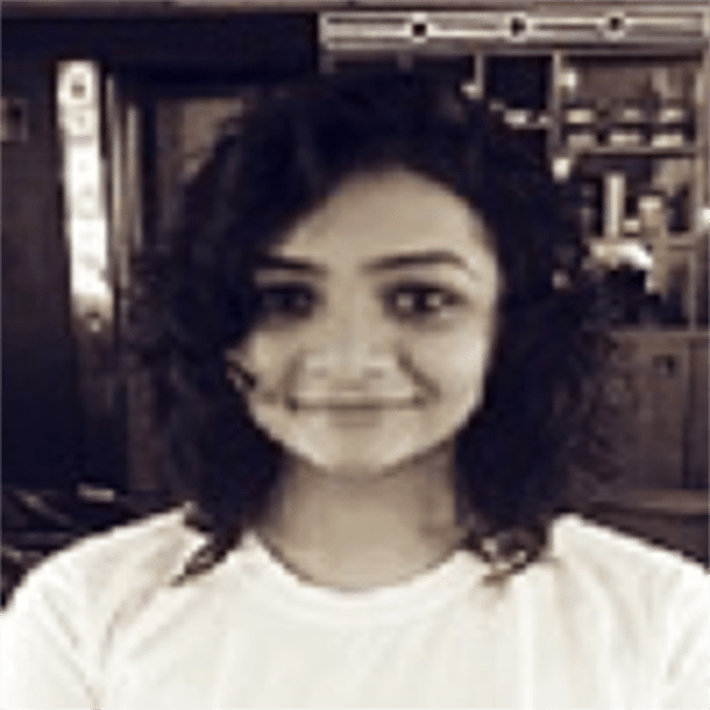
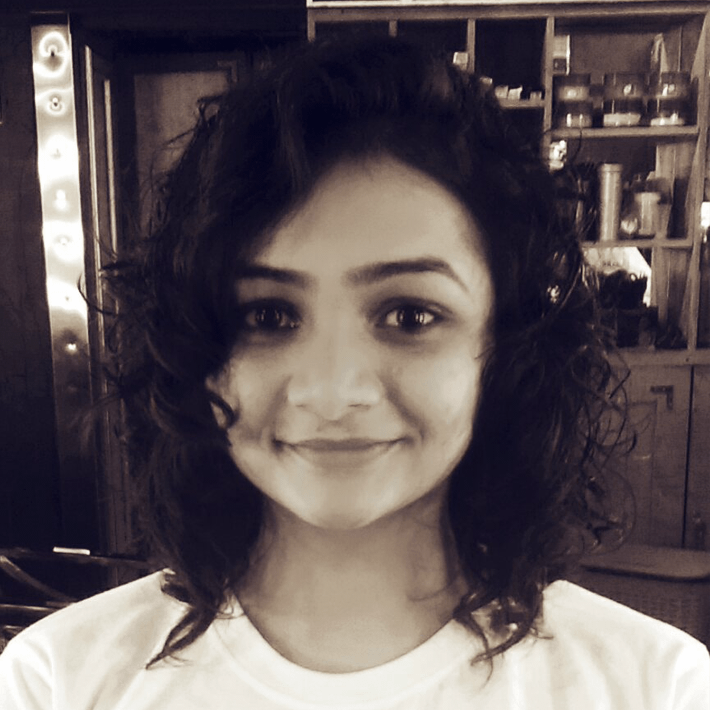
member image added

diff --git a/aboutus.html b/aboutus.html
@@ -372,7 +372,7 @@ Education saves lives, fosters peace, strengthens the rights of women and girls,
                     <div class="team-single-wrapper">
                         <div class="team-single">
                             <div class="person-thumb">
-                                <img src="images/ourteam/amit.png" class="img-responsive" alt="">
+                                <img src="images/ourteam/anirban.png" class="img-responsive" alt="">
                             </div>
 <!--
                             <div class="social-profile">
@@ -394,7 +394,7 @@ Education saves lives, fosters peace, strengthens the rights of women and girls,
                     <div class="team-single-wrapper">
                         <div class="team-single">
                             <div class="person-thumb">
-                                <img src="images/ourteam/amit.png" class="img-responsive" alt="">
+                                <img src="images/ourteam/unknown-person.png" class="img-responsive" alt="">
                             </div>
 <!--
                             <div class="social-profile">
@@ -416,7 +416,7 @@ Education saves lives, fosters peace, strengthens the rights of women and girls,
                     <div class="team-single-wrapper">
                         <div class="team-single">
                             <div class="person-thumb">
-                                <img src="images/ourteam/amit.png" class="img-responsive" alt="">
+                                <img src="images/ourteam/soham.png" class="img-responsive" alt="">
                             </div>
 <!--
                             <div class="social-profile">
@@ -438,7 +438,7 @@ Education saves lives, fosters peace, strengthens the rights of women and girls,
                     <div class="team-single-wrapper">
                         <div class="team-single">
                             <div class="person-thumb">
-                                <img src="images/ourteam/amit.png" class="img-responsive" alt="">
+                                <img src="images/ourteam/arup.png" class="img-responsive" alt="">
                             </div>
 <!--
                             <div class="social-profile">
@@ -460,7 +460,7 @@ Education saves lives, fosters peace, strengthens the rights of women and girls,
                     <div class="team-single-wrapper">
                         <div class="team-single">
                             <div class="person-thumb">
-                                <img src="images/ourteam/amit.png" class="img-responsive" alt="">
+                                <img src="images/ourteam/sayantan.png" class="img-responsive" alt="">
                             </div>
 <!--
                             <div class="social-profile">
@@ -482,7 +482,7 @@ Education saves lives, fosters peace, strengthens the rights of women and girls,
                     <div class="team-single-wrapper">
                         <div class="team-single">
                             <div class="person-thumb">
-                                <img src="images/ourteam/amit.png" class="img-responsive" alt="">
+                                <img src="images/ourteam/avinash.png" class="img-responsive" alt="">
                             </div>
 <!--
                             <div class="social-profile">
@@ -504,7 +504,7 @@ Education saves lives, fosters peace, strengthens the rights of women and girls,
                     <div class="team-single-wrapper">
                         <div class="team-single">
                             <div class="person-thumb">
-                                <img src="images/ourteam/amit.png" class="img-responsive" alt="">
+                                <img src="images/ourteam/mayank.png" class="img-responsive" alt="">
                             </div>
 <!--
                             <div class="social-profile">
@@ -518,7 +518,7 @@ Education saves lives, fosters peace, strengthens the rights of women and girls,
                         </div>
                         <div class="person-info">
                             <h2 >Mayank Sewalia</h2>
-                            <p>entrepreneur &amp; Researcher </p>
+                            <p>Entrepreneur &amp; Researcher </p>
                         </div>
                     </div>
                 </div>
@@ -526,7 +526,7 @@ Education saves lives, fosters peace, strengthens the rights of women and girls,
                     <div class="team-single-wrapper">
                         <div class="team-single">
                             <div class="person-thumb">
-                                <img src="images/ourteam/amit.png" class="img-responsive" alt="">
+                                <img src="images/ourteam/unknown-person.png" class="img-responsive" alt="">
                             </div>
 <!--
                             <div class="social-profile">
@@ -548,7 +548,7 @@ Education saves lives, fosters peace, strengthens the rights of women and girls,
                     <div class="team-single-wrapper">
                         <div class="team-single">
                             <div class="person-thumb">
-                                <img src="images/ourteam/amit.png" class="img-responsive" alt="">
+                                <img src="images/ourteam/unknown-person.png" class="img-responsive" alt="">
                             </div>
 <!--
                             <div class="social-profile">
